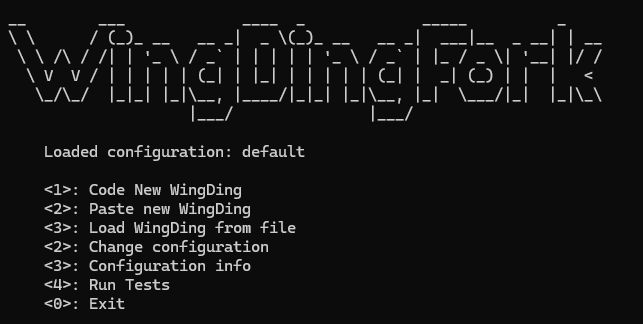
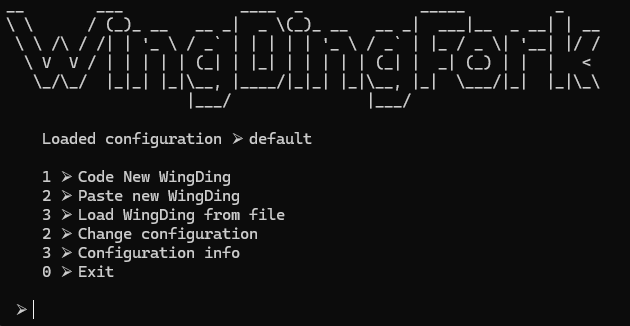
examples

diff --git a/dingfork/Main.cs b/dingfork/Main.cs
@@ -15,20 +15,19 @@ namespace dingfork
 
         const string MAINLOOP_HEADER = """
 
-            Loaded configuration: {0}
+            Loaded configuration ⮚ {0}
 
-            <1>: Code New WingDing
-            <2>: Paste new WingDing
-            <3>: Load WingDing from file
-            <2>: Change configuration
-            <3>: Configuration info
-            <4>: Run Tests 
-            <0>: Exit
+            1 ⮚ Code New WingDing
+            2 ⮚ Paste new WingDing
+            3 ⮚ Load WingDing from file
+            2 ⮚ Change configuration
+            3 ⮚ Configuration info
+            0 ⮚ Exit
 
         """;
         // Indexed Method names -- should match the order of above options
         // TODO: make this dynamic
-        public string[] mainMthdOptions = ["Quit", "RunLoop", "PasteCode", "LoadCode","ChangeConfig", "PrintConfig", "TestLoop"];
+        public string[] mainMthdOptions = ["Quit", "RunLoop", "PasteCode", "LoadCode","ChangeConfig", "PrintConfig"];
 
 
         /*
@@ -38,12 +37,12 @@ namespace dingfork
         
         code ⮚ {0}
 
-        <1>: Run [code]
-        <2>: Delete last instruction
-        <3>: Clear all instructions
-        <4>: Save as subroutine
-        <5>: Main Menu
-        <0>: Quit
+        1 ⮚ Run [code]
+        2 ⮚ Delete last instruction
+        3 ⮚ Clear all instructions
+        4 ⮚ Save as subroutine
+        5 ⮚ Main Menu
+        0 ⮚ Quit
 
         """;
         // Indexed Method names -- should match the order of above options
